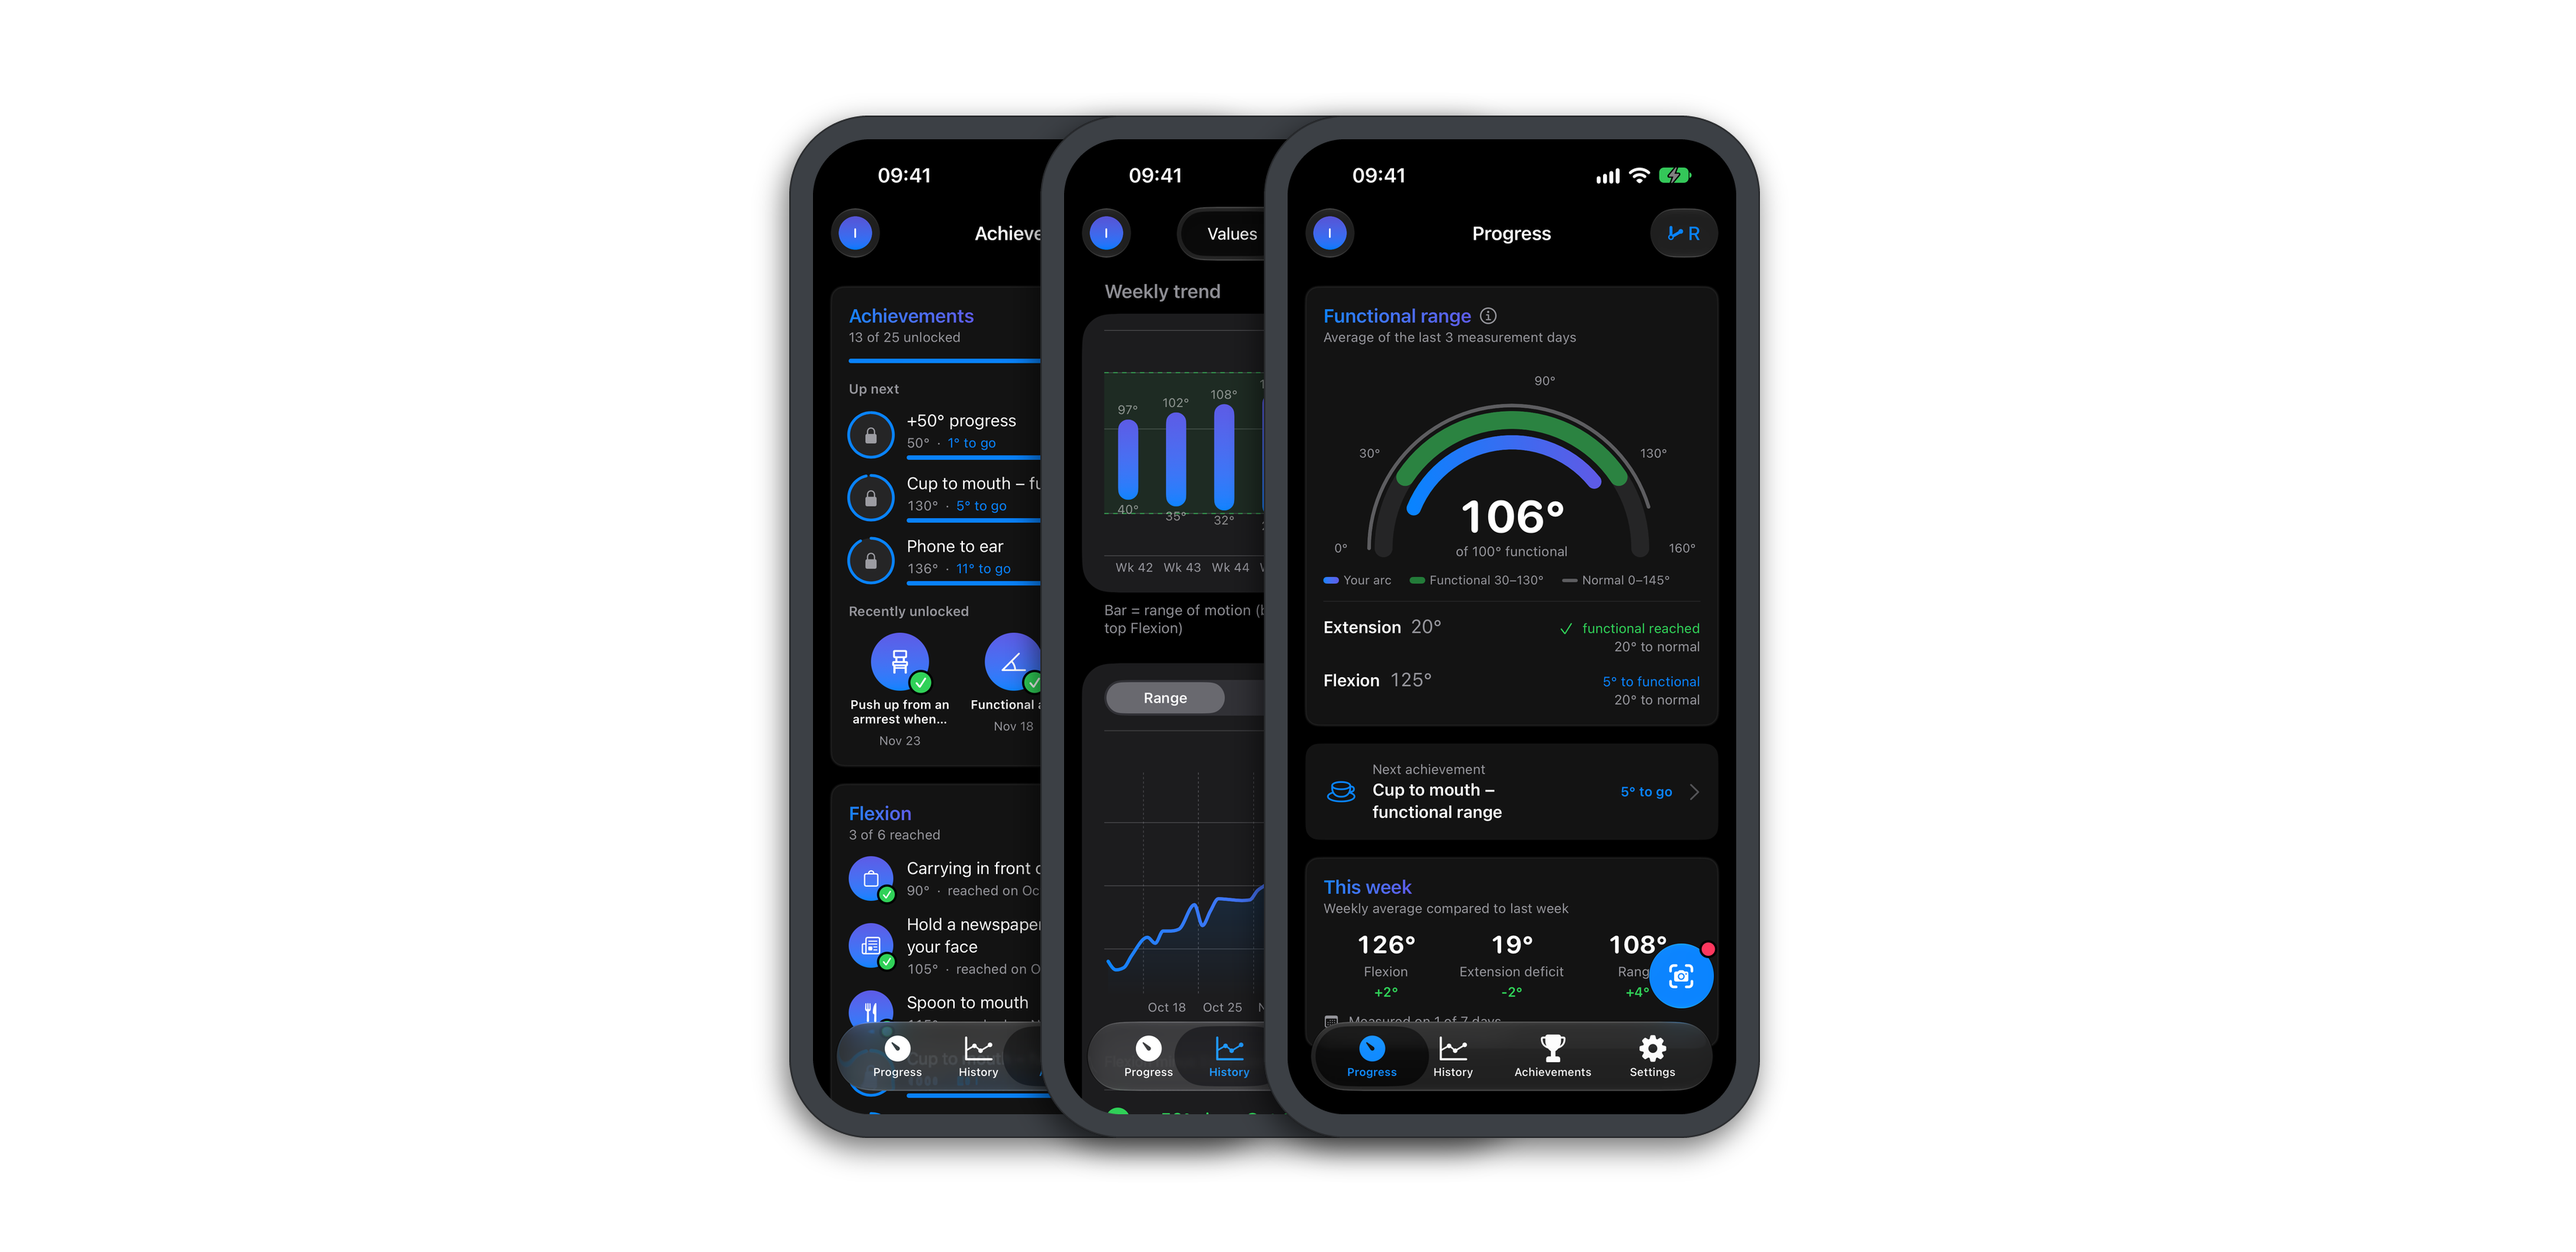
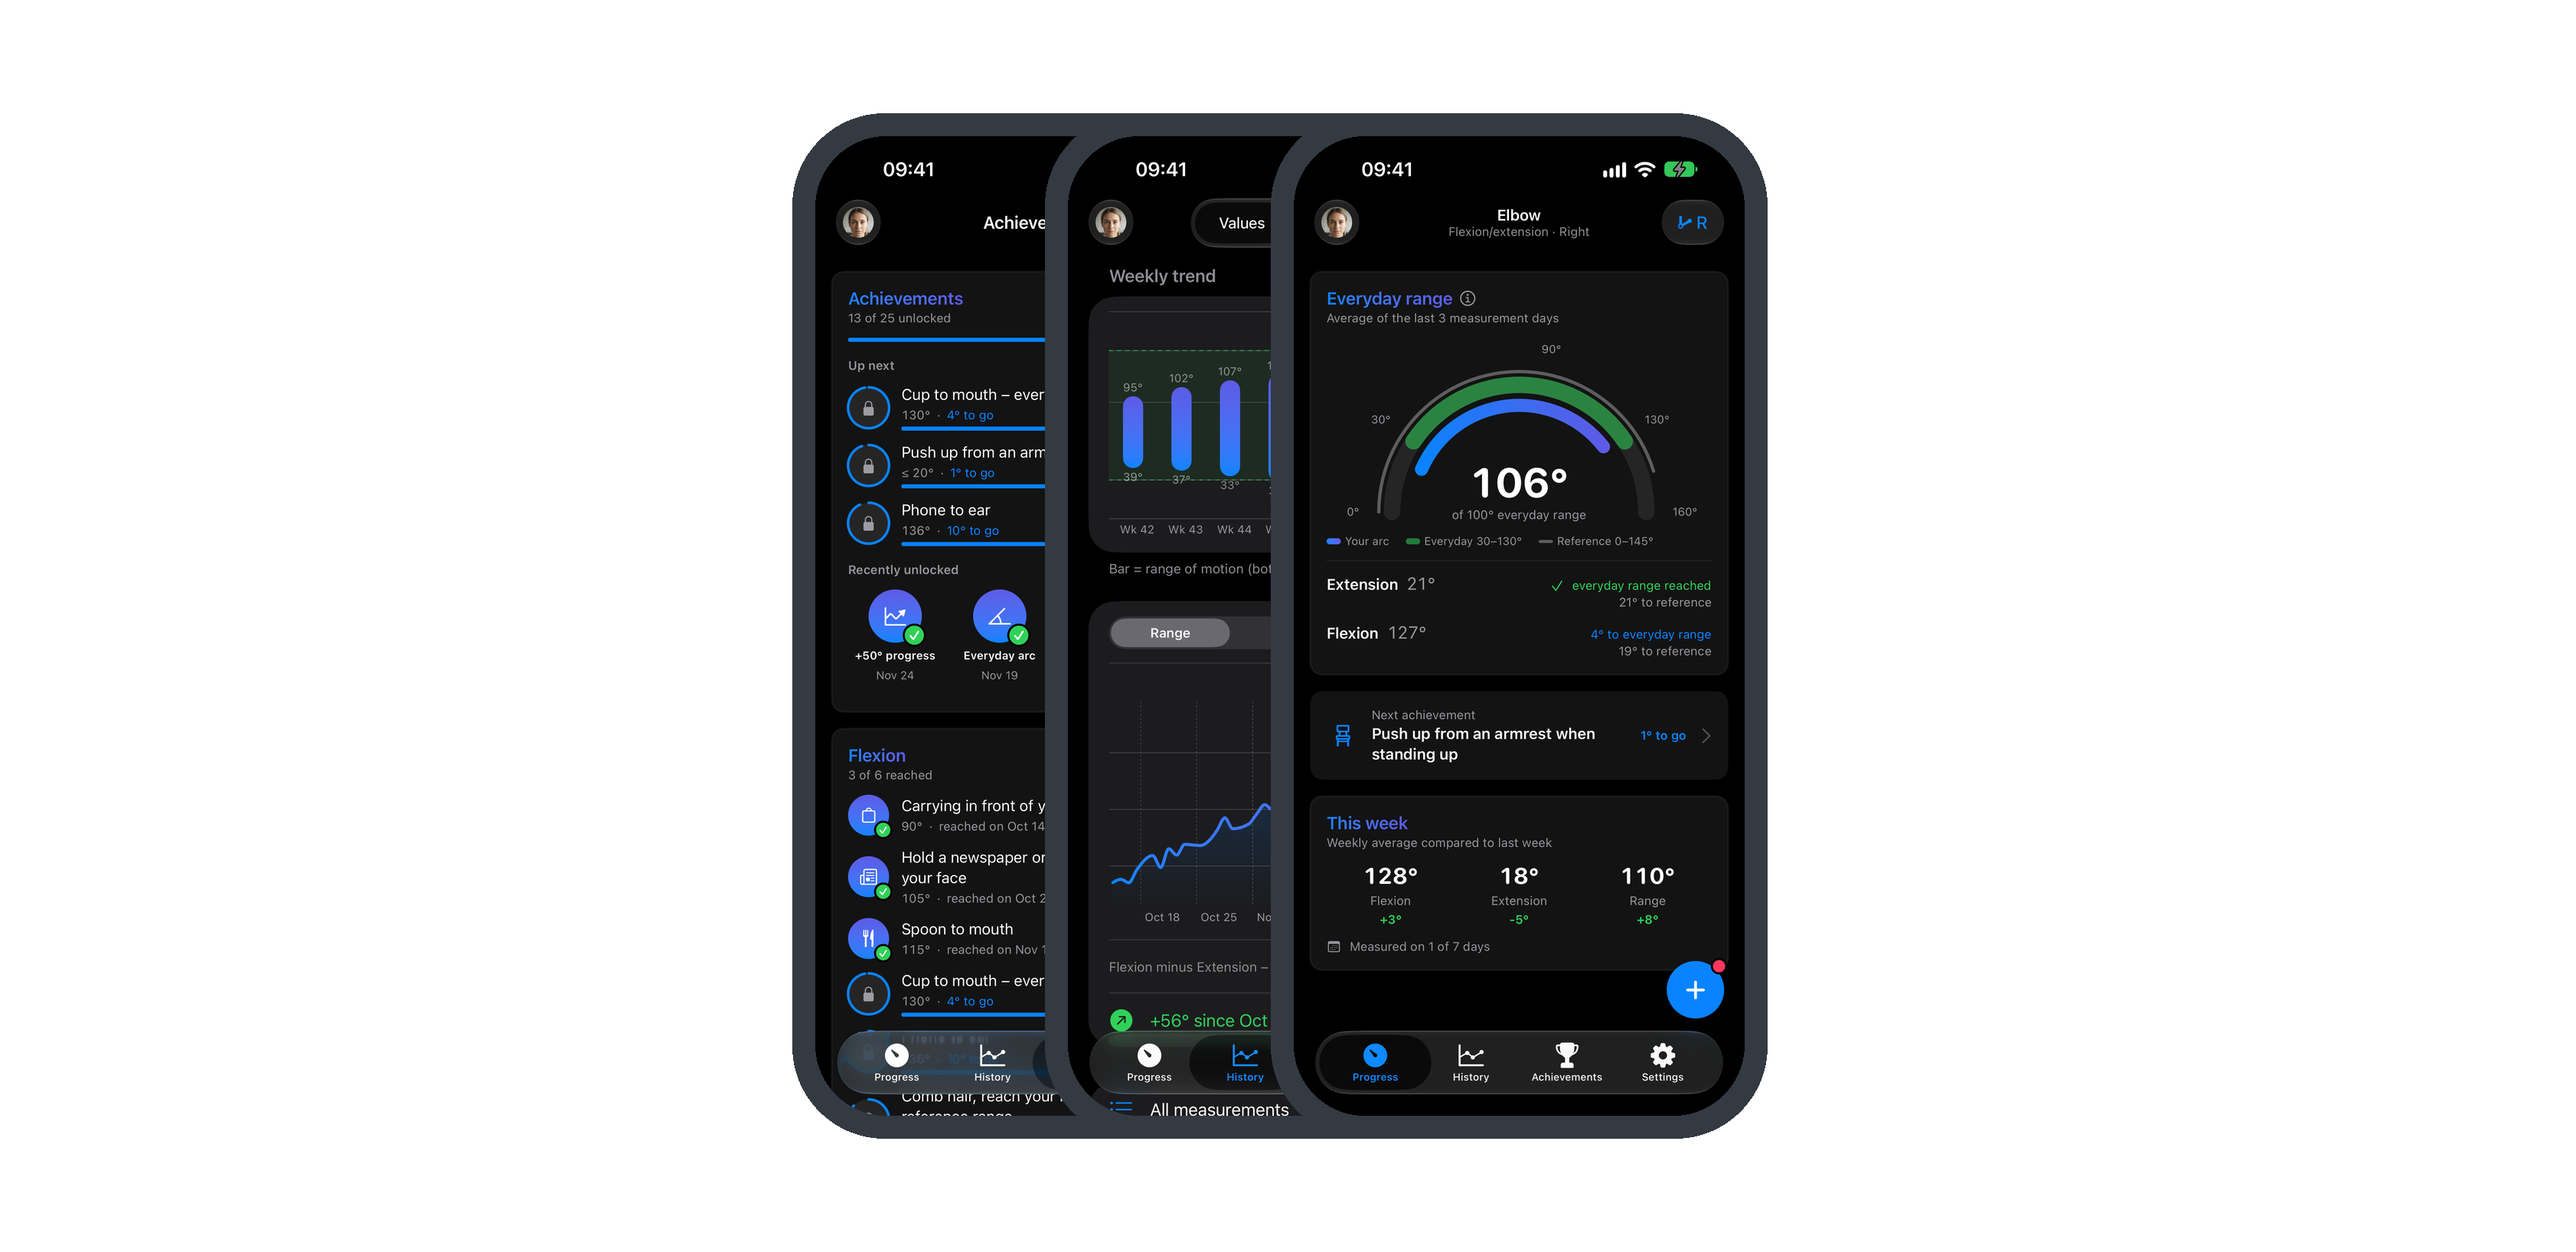
Describe Gio+ as a mobility app and update its preview image
The text no longer mentions recovery or rehab, and the preview shows the
app's current terms.

diff --git a/js/i18n.js b/js/i18n.js
@@ -73,7 +73,7 @@
             "pianooDesc": "A music theory app for chords, scales and progressions, made for writing songs and practicing.",
             "gioTagline": "Measure your range of motion.",
             "comingSoon": "Coming soon",
-            "gioDesc": "Gio+ uses the camera to measure how far your elbow, knee or shoulder bends and straightens, and tracks your recovery over time. Built with TCA, SQLiteData, Vision, WidgetKit, App Intents and SwiftUI.",
+            "gioDesc": "Gio+ uses the camera to measure how far your elbow, knee or shoulder bends and straightens, and shows how your range of motion changes over time. Built with TCA, SQLiteData, Vision, WidgetKit, App Intents and SwiftUI.",
             "moreTitle": "More projects",
             "jellyDesc": "Open-source library for animated view controller transitions in UIKit.",
             "openSource": "Open Source",
@@ -167,7 +167,7 @@
             "pianooDesc": "Eine Musiktheorie-App für Akkorde, Tonleitern und Progressionen, gedacht fürs Songwriting und Üben.",
             "gioTagline": "Miss deine Beweglichkeit.",
             "comingSoon": "Demnächst",
-            "gioDesc": "Gio+ misst mit der Kamera, wie weit sich Ellbogen, Knie oder Schulter beugen und strecken lassen, und zeigt deinen Fortschritt in der Reha. Gebaut mit TCA, SQLiteData, Vision, WidgetKit, App Intents und SwiftUI.",
+            "gioDesc": "Gio+ misst mit der Kamera, wie weit sich Ellbogen, Knie oder Schulter beugen und strecken lassen, und zeigt, wie sich dein Bewegungsumfang entwickelt. Gebaut mit TCA, SQLiteData, Vision, WidgetKit, App Intents und SwiftUI.",
             "moreTitle": "Weitere Projekte",
             "jellyDesc": "Open-Source-Bibliothek für animierte View-Controller-Transitions in UIKit.",
             "openSource": "Open Source",

diff --git a/index.html b/index.html
@@ -207,7 +207,7 @@
                         <h3 class="text-2xl font-display font-bold text-white mb-2">Gio+</h3>
                         <p class="text-brand-400 font-medium mb-4" data-i18n="projects.gioTagline">Measure your range of motion.</p>
                         <div class="flex flex-wrap gap-2 mb-4"><span class="tag-style" data-i18n="projects.comingSoon">Coming soon</span></div>
-                        <p class="text-white/70 mb-4" data-i18n="projects.gioDesc">Gio+ uses the camera to measure how far your elbow, knee or shoulder bends and straightens, and tracks your recovery over time. Built with TCA, SQLiteData, Vision, WidgetKit, App Intents and SwiftUI.</p>
+                        <p class="text-white/70 mb-4" data-i18n="projects.gioDesc">Gio+ uses the camera to measure how far your elbow, knee or shoulder bends and straightens, and shows how your range of motion changes over time. Built with TCA, SQLiteData, Vision, WidgetKit, App Intents and SwiftUI.</p>
                         <a href="https://gioplus.app" target="_blank" class="text-brand-400 hover:text-white font-medium">gioplus.app →</a>
                     </div>
                     <a href="https://gioplus.app" target="_blank" class="order-1 lg:order-2 block rounded-2xl overflow-hidden transition-transform hover:-translate-y-1">
